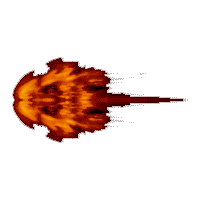
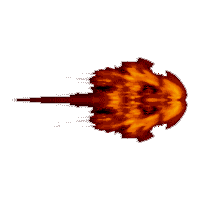
이미지회전 적용함

Changed region(s): [[0.06, 0.27, 0.96, 0.72]]

diff --git a/팀프로젝트/팀프로젝트/Character.h b/팀프로젝트/팀프로젝트/Character.h
@@ -112,10 +112,10 @@ public:
 		//cout << angle << endl;
 
 		if (45.0f <= angle && angle <= 135.0f)m_dirState = DIR_UP;
-		if (45.0f + 90.0f <= angle && angle <= 135.0f + 90.0f)m_dirState = DIR_RIGHT;
+		if (45.0f + 90.0f <= angle && angle <= 135.0f + 90.0f)m_dirState = DIR_LEFT;
 		if (135.0f + 90.0f <= angle && angle <= 135.0f + 180.0f)m_dirState = DIR_DOWN;
-		if (135.0f + 180.0f <= angle && angle <= 360.0f)m_dirState = DIR_LEFT;
-		if (45.0f >= angle)m_dirState = DIR_LEFT;
+		if (135.0f + 180.0f <= angle && angle <= 360.0f)m_dirState = DIR_RIGHT;
+		if (45.0f >= angle)m_dirState = DIR_RIGHT;
 		//cout << state << endl;
 	}
 

diff --git a/팀프로젝트/팀프로젝트/ObjectManager.cpp b/팀프로젝트/팀프로젝트/ObjectManager.cpp
@@ -127,9 +127,10 @@ void ObjectManager::Draw(Camera* pCamera)
 void ObjectManager::CreateSkill(Object* pCharacter, SKILL_USER id, Vector size)
 {
 	NEW_OBJECT(Object* skill, Skill(pCharacter, id));
-
 	skill->SetPosition(pCharacter->Position());
 	skill->SetSkillCollider(pCharacter->Position(), pCharacter->GetDir(), size);
+	skill->Animation()->Register(FIRE_BOLT, new Animation(TEXT("Fire_Bolt"), 11, 60, true, 0.5f));
+
 
 	m_skillList.push_back(skill);
 

diff --git a/팀프로젝트/팀프로젝트/Player.h b/팀프로젝트/팀프로젝트/Player.h
@@ -41,7 +41,6 @@ public:
 	void Draw(Camera* pCamera)
 	{
 		pCamera->Draw(Animation()->Current()->GetSprite(), Position());
-
 		//pCamera->DrawCircle(getCircle().center, getCircle().radius, ColorF::Red, 2.0f);
 		//pCamera->DrawFillCircle(Position(), 30, ColorF::Red);
 		pCamera->DrawLine(Position() + 15.0f, Position() + 15.0f + m_dir * 30, ColorF::Blue, 3);

diff --git a/팀프로젝트/팀프로젝트/FieldScene.h b/팀프로젝트/팀프로젝트/FieldScene.h
@@ -27,6 +27,7 @@ public:
 		SOUND->LoadFile("Boss1Bgm", "Sound/Boss1.wav", true);
 		SOUND->LoadFile("Explosion1", "Sound/Effect/Explosion1.wav", false);
 
+
 		OBJECT->CreatePlayer(Vector(600, 800), 30);
 		OBJECT->CreateSkill(OBJECT->GetPlayer(), USER_PLAYER, SkillSize);
 

diff --git a/팀프로젝트/팀프로젝트/AnimationController.h b/팀프로젝트/팀프로젝트/AnimationController.h
@@ -24,7 +24,6 @@ public:
 			wsprintf(key, TEXT("%s%d"), imageKey.c_str(), i);
 			m_sprites.push_back(new Sprite(RENDER->GetImage(key), scale, anchorX, anchorY));
 		}
-
 		m_frameTime = 1.0f / (float)fps;
 		m_elapsedTime = 0.0f;
 		m_spriteCount = imageCount;
